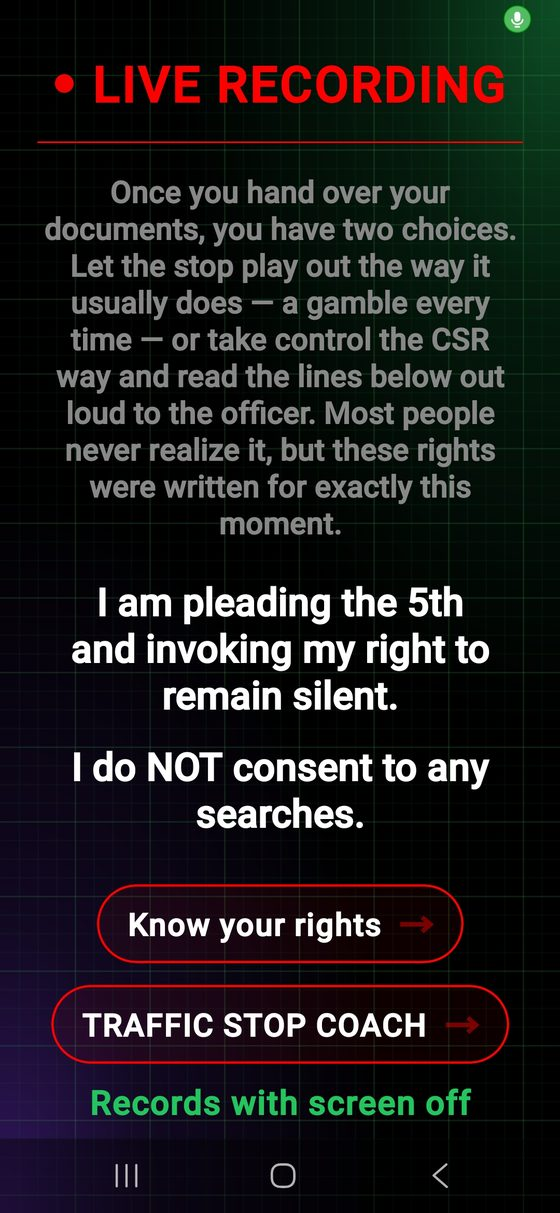
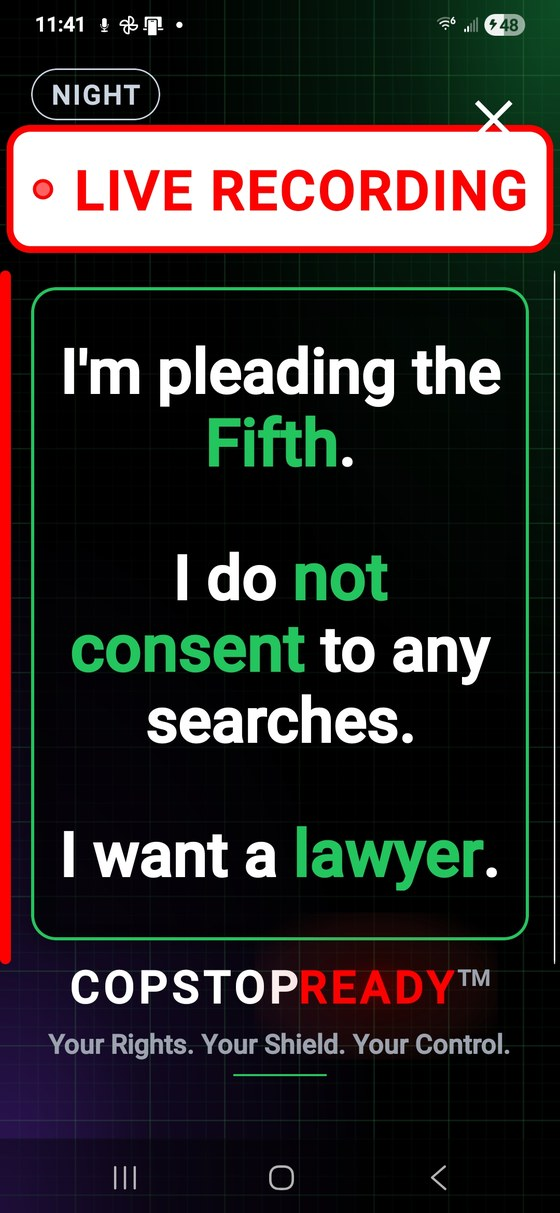
Features: new recording + CSR Coach screenshots, no Ticket Fighter

diff --git a/features/index.html b/features/index.html
@@ -190,7 +190,7 @@
     </div>
 
     <div class="shots">
-      <div class="shot"><img src="/img/home.jpg" alt="CopStopReady home screen" width="620" height="1343"></div>
+      <div class="shot"><img src="/img/coach.jpg" alt="CopStopReady CSR Coach screen" width="620" height="1343"></div>
       <div class="shot"><img src="/img/live_recording.jpg" alt="Live recording script" width="560" height="1213"></div>
     </div>
 
